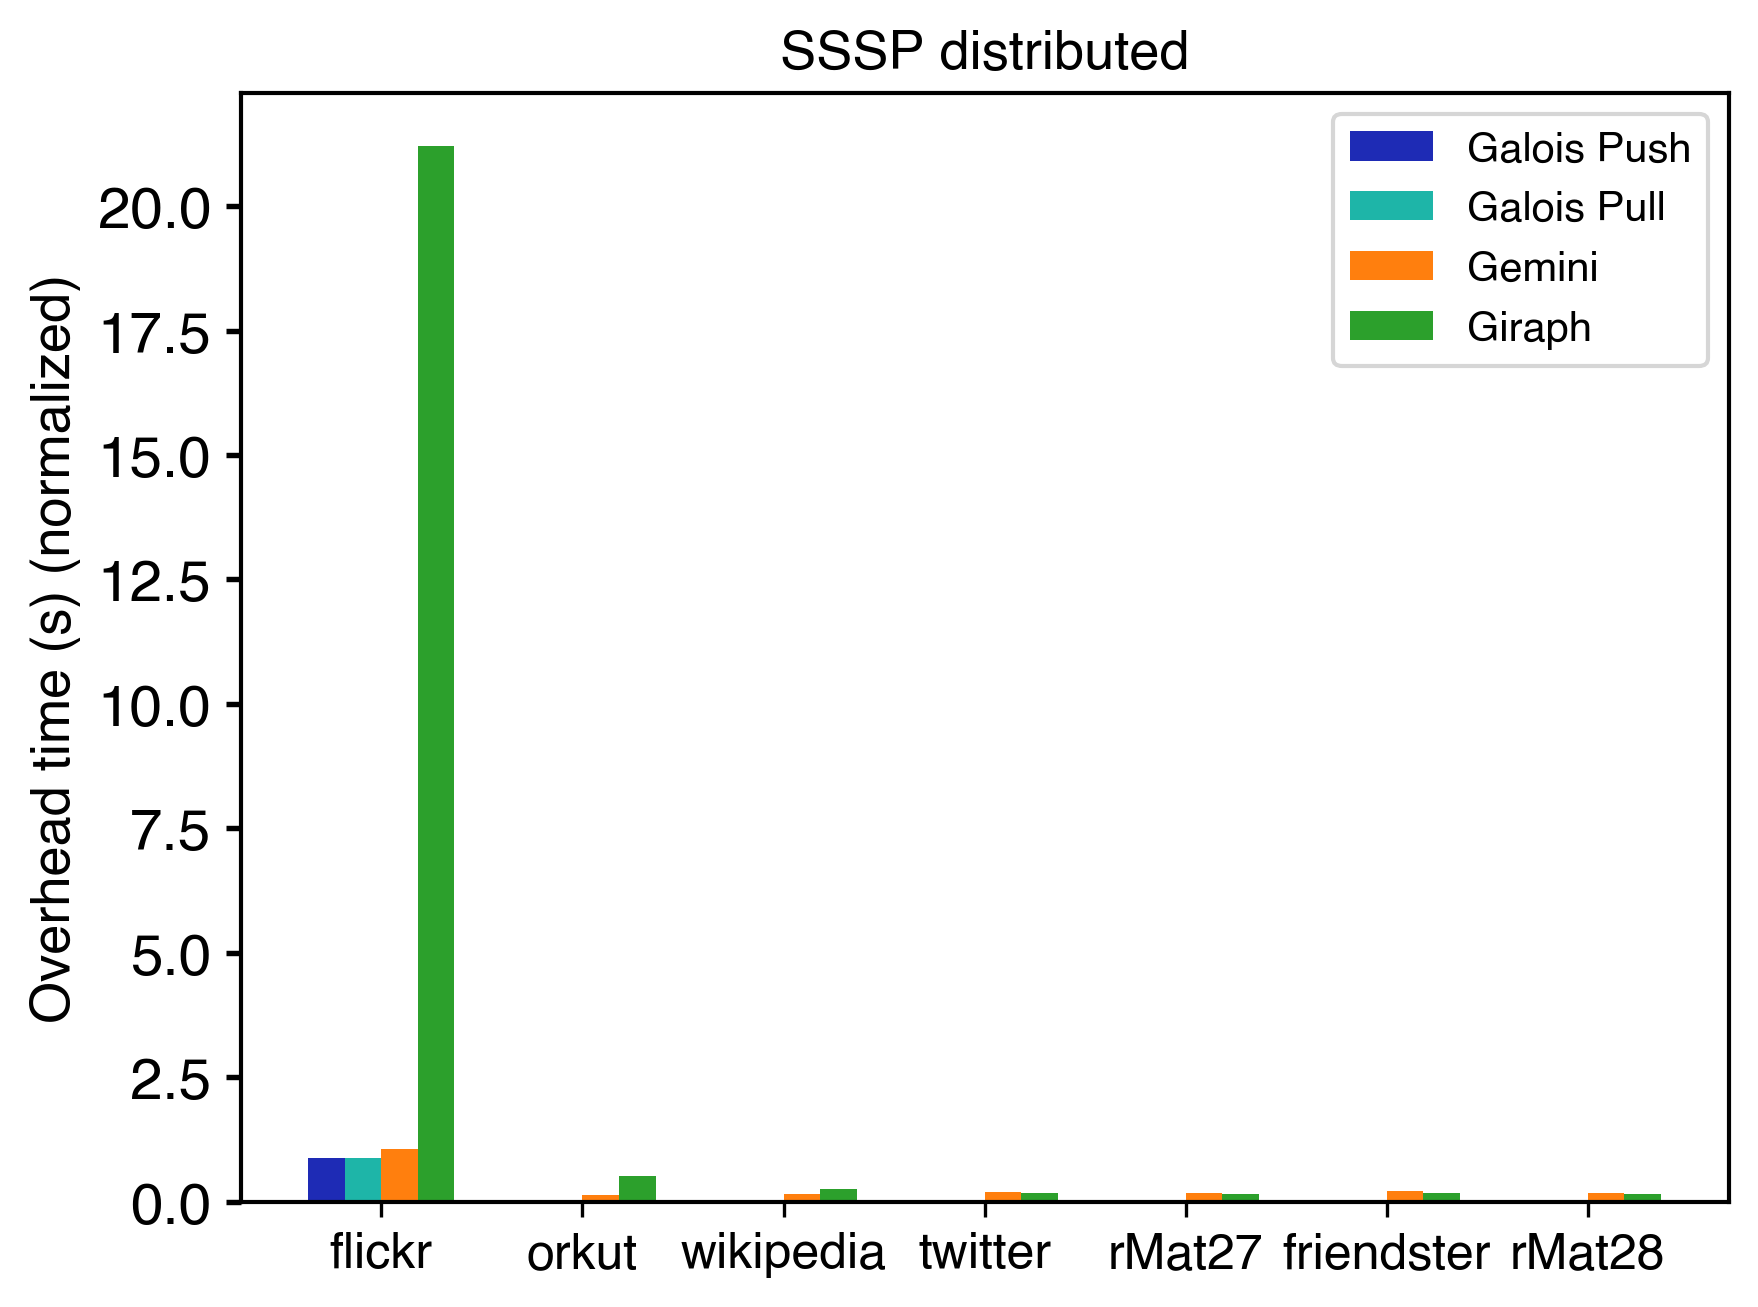
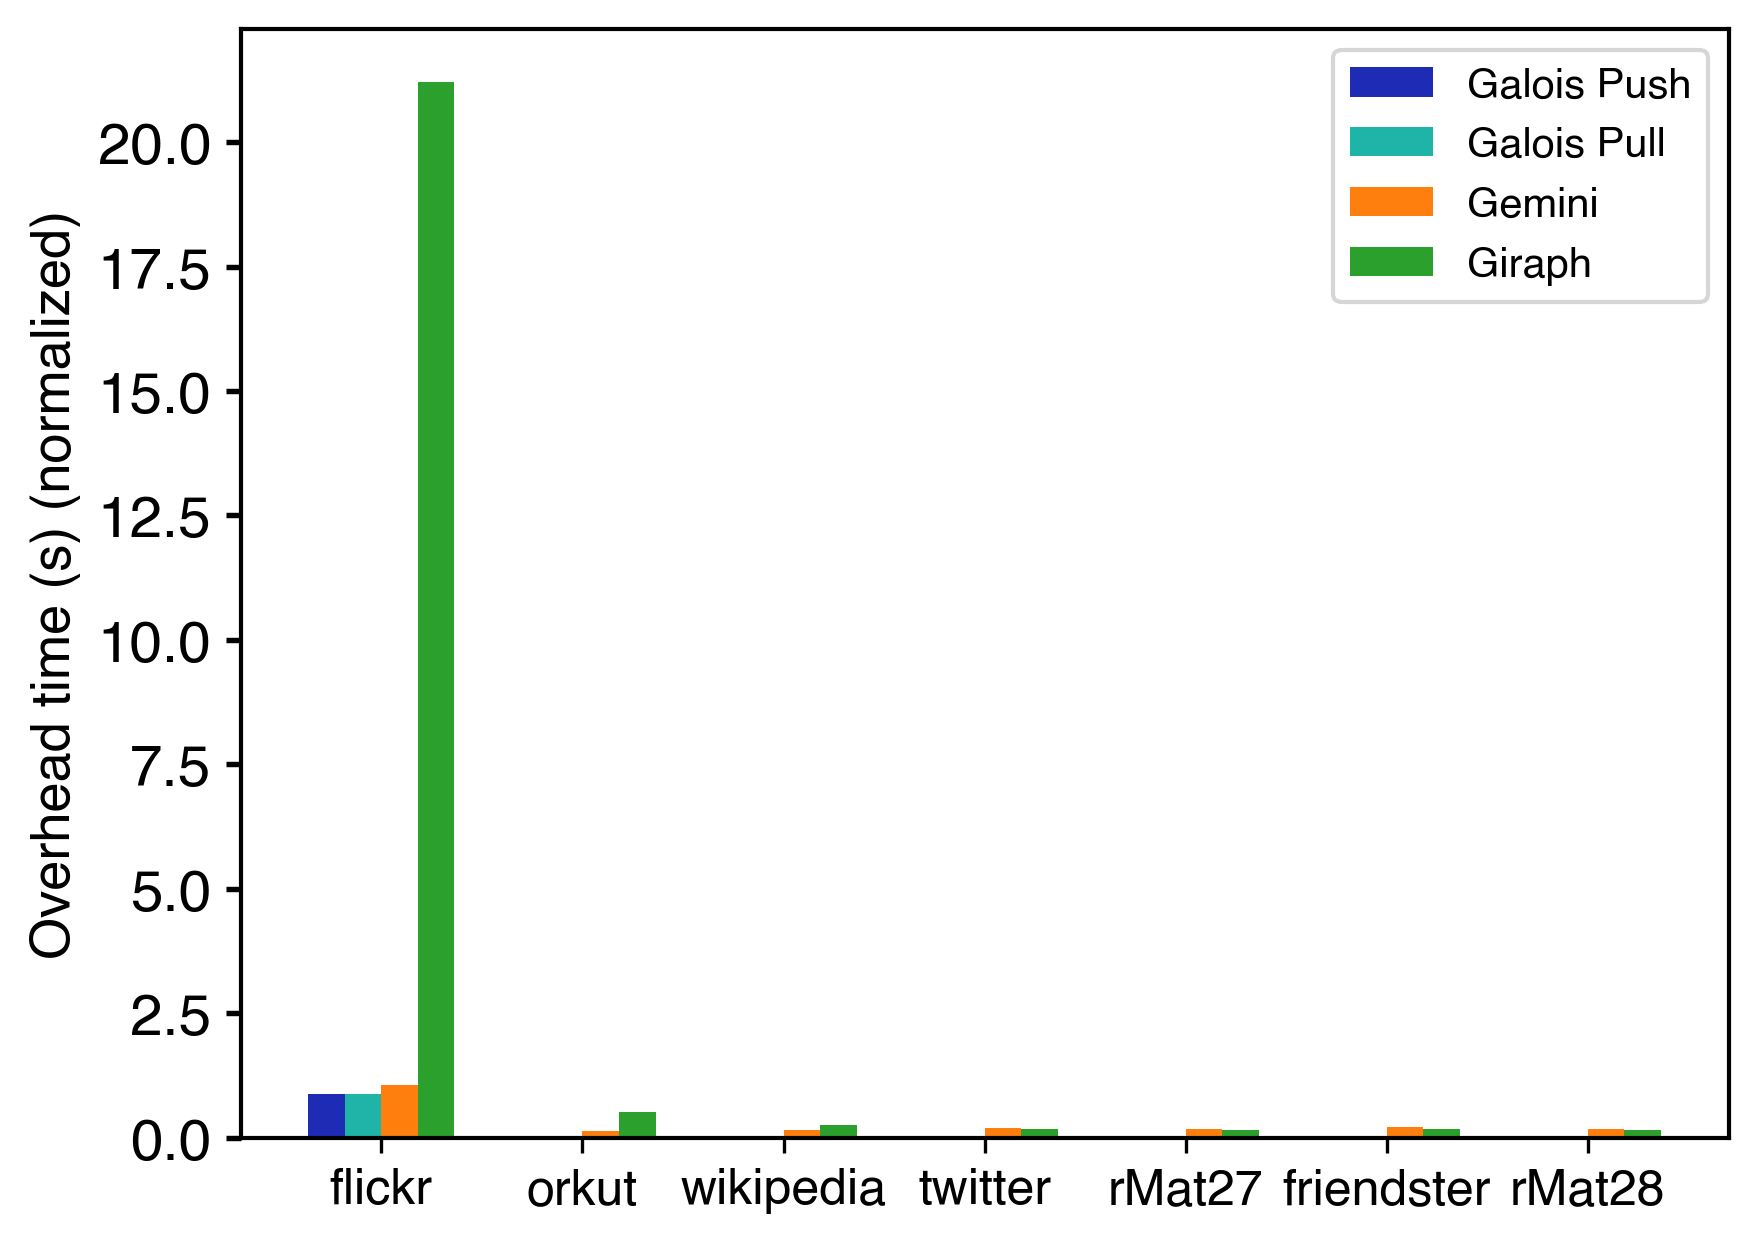
removed all titles from plots

diff --git a/plots/makeplots.py b/plots/makeplots.py
@@ -5,11 +5,11 @@ from plotFunctions import *
 
 
 distributed = False
-singleNode = True
+singleNode = False
 
 sssp = False
 bfs = False
-pr = True
+pr = False
 
 calcTimes = False
 execTimes = False
@@ -70,7 +70,7 @@ if singleNode and ( sssp or bfs or pr or calcTimes or execTimes or overheads):
 	if sssp or overheads:
 		grouped_bar_plot(graphs, frameworks, overheadSSSP_singleNode, yLabel='Overhead time (s)', saveToFile="singleNodeSSSP_overheadTime.png", colors_=colors)
 
-		grouped_bar_plot(graphs, frameworks, overheadSSSPNormalized_singleNode, title='SSSP single node', yLabel='Overhead time (s) (normalized)', saveToFile="singleNodeSSSP_overheadTimeNormalized.png", yScale='linear', colors_=colors)
+		grouped_bar_plot(graphs, frameworks, overheadSSSPNormalized_singleNode, yLabel='Overhead time (s) (normalized)', saveToFile="singleNodeSSSP_overheadTimeNormalized.png", yScale='linear', colors_=colors)
 
 	#BFS
 	if bfs or overheads:
@@ -93,9 +93,9 @@ if galoisSpeedup:
 
 	line_plot(graphs, x, speedupGaloisBFS, yLabel='Average calculation time speedup', xLabel='Thread count', yScale='linear', saveToFile="singleNodeBFSGaloisThreads.png", ylim=[0,11])
 
-	line_plot(graphs, x, speedupGaloisPRPush, title='Speedup PR Push', xLabel='Thread count', yScale='linear', saveToFile="singleNodePRPushGaloisThreads.png", ylim=[0.85,2.5])
+	line_plot(graphs, x, speedupGaloisPRPush, xLabel='Thread count', yScale='linear', saveToFile="singleNodePRPushGaloisThreads.png", ylim=[0.85,2.5])
 
-	line_plot(graphs, x, speedupGaloisPRPull, title='Speedup PR Pull', yLabel='Average calculation time speedup', xLabel='Thread count', yScale='linear', saveToFile="singleNodePRPullGaloisThreads.png", ylim=[0.5,2.6])
+	line_plot(graphs, x, speedupGaloisPRPull, yLabel='Average calculation time speedup', xLabel='Thread count', yScale='linear', saveToFile="singleNodePRPullGaloisThreads.png", ylim=[0.5,2.6])
 
 
 ## GALOIS HP THREAD COUNT
@@ -104,9 +104,9 @@ if galoisSpeedup:
 
 	line_plot(graphs, xHP, speedupGaloisBFS_HP, yLabel='Average calculation time speedup', xLabel='Thread count', yScale='linear', saveToFile="singleNodeBFSGaloisHPThreads.png", ylim=[0,11])
 
-	line_plot(graphs, xHP, speedupGaloisPRPush_HP, title='Speedup PR Push HP',  xLabel='Thread count', yScale='linear', saveToFile="singleNodePRPushGaloisHPThreads.png", ylim=[0.85,2.5])
+	line_plot(graphs, xHP, speedupGaloisPRPush_HP,  xLabel='Thread count', yScale='linear', saveToFile="singleNodePRPushGaloisHPThreads.png", ylim=[0.85,2.5])
 
-	line_plot(graphs, xHP, speedupGaloisPRPull_HP, title='Speedup PR Pull HP', yLabel='Average calculation time speedup', xLabel='Thread count', yScale='linear', saveToFile="singleNodePRPullGaloisHPThreads.png", ylim=[0.5,2.6])
+	line_plot(graphs, xHP, speedupGaloisPRPull_HP, yLabel='Average calculation time speedup', xLabel='Thread count', yScale='linear', saveToFile="singleNodePRPullGaloisHPThreads.png", ylim=[0.5,2.6])
 
 
 
@@ -146,21 +146,21 @@ if distributed and ( sssp or bfs or pr or calcTimes or execTimes or overheads):
 	## OVERHEAD
 	#SSSP
 	if sssp or overheads:
-		grouped_bar_plot(graphs, list(dist_frameworks_sssp.values()), overheadSSSP_distributed, title='Overhead time of each framework during SSSP', yLabel='Overhead time (s)', saveToFile="distributedSSSP_overheadTime.png", colors_=colors)
+		grouped_bar_plot(graphs, list(dist_frameworks_sssp.values()), overheadSSSP_distributed, yLabel='Overhead time (s)', saveToFile="distributedSSSP_overheadTime.png", colors_=colors)
 
-		grouped_bar_plot(graphs, list(dist_frameworks_sssp.values()), overheadSSSPNormalized_distributed, title='SSSP distributed', yLabel='Overhead time (s) (normalized)', saveToFile="distributedSSSP_overheadTimeNormalized.png", yScale='linear', colors_=colors)
+		grouped_bar_plot(graphs, list(dist_frameworks_sssp.values()), overheadSSSPNormalized_distributed, yLabel='Overhead time (s) (normalized)', saveToFile="distributedSSSP_overheadTimeNormalized.png", yScale='linear', colors_=colors)
 
 		grouped_bar_plot(graphs, list(dist_frameworks_sssp.values()), execTimeSSSP_distributed_normalizedToGalois, yLabel='Galois Push execution times', saveToFile="distributedSSSP_executionTimeNormalizedToGalois.png", yScale='log', colors_=colors)
 
 	#BFS
 	if bfs or overheads:
-		grouped_bar_plot(graphs, list(dist_frameworks_bfs.values()), overheadBFS_distributed, title='Overhead time of each framework during BFS', yLabel='Overhead time (s)', saveToFile="distributedBFS_overheadTime.png", colors_=colors)
+		grouped_bar_plot(graphs, list(dist_frameworks_bfs.values()), overheadBFS_distributed, yLabel='Overhead time (s)', saveToFile="distributedBFS_overheadTime.png", colors_=colors)
 
-		grouped_bar_plot(graphs, list(dist_frameworks_bfs.values()), overheadBFSNormalized_distributed, title='BFS distributed', yLabel='Overhead time (s) (normalized)', saveToFile="distributedBFS_overheadTimeNormalized.png", yScale='linear', colors_=colors)
+		grouped_bar_plot(graphs, list(dist_frameworks_bfs.values()), overheadBFSNormalized_distributed, yLabel='Overhead time (s) (normalized)', saveToFile="distributedBFS_overheadTimeNormalized.png", yScale='linear', colors_=colors)
 
 	#PR
 	if pr or overheads:
-		grouped_bar_plot(graphs, list(dist_frameworks_pr.values()), overheadPR_distributed, title='Overhead time of each framework during PR', yLabel='Overhead time (s)', saveToFile="distributedPR_overheadTime.png", colors_=colors)
+		grouped_bar_plot(graphs, list(dist_frameworks_pr.values()), overheadPR_distributed, yLabel='Overhead time (s)', saveToFile="distributedPR_overheadTime.png", colors_=colors)
 
-		grouped_bar_plot(graphs, list(dist_frameworks_pr.values()), overheadPRNormalized_distributed, title='PR distributed', yLabel='Overhead time (s) (normalized)', saveToFile="distributedPR_overheadTimeNormalized.png", yScale='linear', colors_=colors)
+		grouped_bar_plot(graphs, list(dist_frameworks_pr.values()), overheadPRNormalized_distributed, yLabel='Overhead time (s) (normalized)', saveToFile="distributedPR_overheadTimeNormalized.png", yScale='linear', colors_=colors)
 
